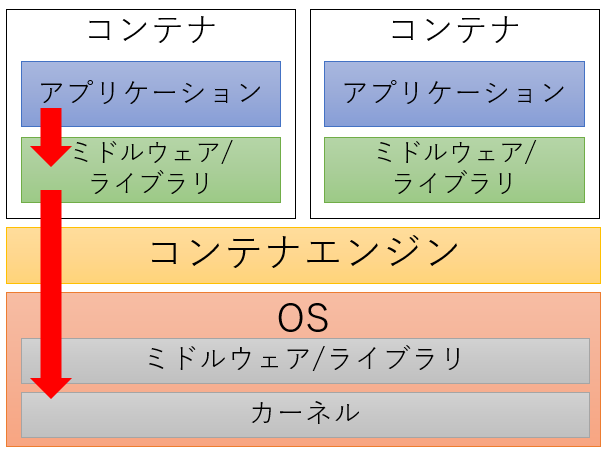
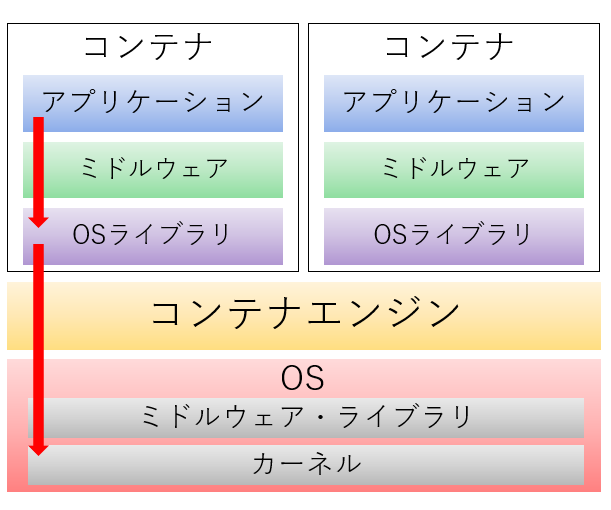
修正

diff --git a/docs/docker/docker_network.html b/docs/docker/docker_network.html
@@ -55,27 +55,25 @@
 
                 <p>一方で，複数のプロセスをコンテナとして実行すれば，PIDといった名前空間が隔離されるため，互いに影響を与えず動作することができる．また，コンテナごとにネットワークも隔離されるため，コンテナ内で各々のプロセスがポートを開放していても，（ホスト側で使用するポート番号が重複していなければ）互いに影響を与えずに起動し続けられる．</p>
                 <figure>
-                    <img src="../imgs/docker_network1.PNG" width="70%" style="display: block; margin: auto;">
+                    <img src="../imgs/docker_network1.PNG" width="85%" style="display: block; margin: auto;">
                     <figcaption>出典：<cite><a href="https://knowledge.sakura.ad.jp/23899/">Docker Compose入門 (3) ～ネットワークの理解を深める～</a></cite></figcaption>
                 </figure>
 
                 <p>これは，Docker Composeを使う場合も同じである．Docker Composeでアプリケーションを実行すると，そのプロセスの名前空間やネットワーク，ボリュームなども，アプリケーションごとに分離することができる．</p>
                 <figure>
-                    <img src="../imgs/docker_network2.PNG" width="70%" style="display: block; margin: auto;">
+                    <img src="../imgs/docker_network2.PNG" width="85%" style="display: block; margin: auto;">
                     <figcaption>出典：<cite><a href="https://knowledge.sakura.ad.jp/23899/">Docker Compose入門 (3) ～ネットワークの理解を深める～</a></cite></figcaption>
                 </figure>
                 
-                <p>Composeを用いると，YAMLファイルに記述した，同じComposeのプロジェクト内に存在するコンテナ間で通信可能なネットワークが作成される．これは，User Defined Bridge Network（ユーザ定義ブリッジ・ネットワーク）と呼ばれ，コンテナ間通信を行うだけでなく，インターネットといったホスト上にあるネットワークとの通信もやりとりする．</p>
-
                 <h3>Dockerのネットワークモデル</h3>
-                <p>通常，Dockerコンテナは，デフォルトではコンテナ外部のネットワークと通信することはできない．そのため，単に複数のコンテナを実行しても，相互に通信できない場合がある．意図した通りにコンテナ間で通信を行うには、適切な設定が必要でである．</p>
+                <p>通常，Dockerコンテナは，デフォルトではコンテナ外部のネットワークと通信することはできない．そのため，単に複数のコンテナを実行しても，相互に通信できない場合がある．意図した通りにコンテナ間で通信を行うには、適切な設定が必要である．</p>
                 <p><code>$ docker run</code>で，コンテナを起動すると，通常は"bridge0"という名前のブリッジ・ネットワークに接続する．これがデフォルトのブリッジ・ネットワーク(bridge network)である．同じブリッジ・ネットワーク上に接続しているコンテナは，互いに通信が可能となる．そのため，ネットワークを特に定義しないコンテナ間では，コンテナが持つIPアドレスを用いて互いに通信できる．</p>
 
-                <p>しかし，この場合，コンテナのIPアドレスが変わった場合に対処が必要となる．コンテナ技術により，容易にアプリケーションをスケールアウトし易くなったが，コンテナ間の通信でIPアドレスが必要となれば，通常のサーバ運用と同じ，あるいはそれ以上に設定・管理が煩雑になる．</p>
+                <p>しかし，この場合，コンテナのIPアドレスが変わった場合に対処が必要となる．コンテナ技術により，容易にアプリケーションをスケールアウトし易くなったにも関わらず，コンテナ間の通信でIPアドレスが必要となれば，通常のサーバ運用と同じ，あるいはそれ以上に設定・管理が煩雑になってしまう．</p>
 
-                <p>Dockerには，コンテナ間での通信や，処理の負荷分散を行うため，ネットワーク内部で利用可能な”コンテナ名”，”IPアドレス”の名前解決（サービス・ディスカバリ）を行う仕組みが，標準で搭載されている．つまり，コンテナ間の通信は，IPアドレスではなく，コンテナ名を用いることができる．これにより，スケールできる環境においてもIPアドレスを意識する必要がなくなり，コンテナ間の通信や負荷分散が容易となる．</p>
+                <p>Dockerには，コンテナ間での通信や，処理の負荷分散を行うため，ネットワーク内部で利用可能な”コンテナ名”，”IPアドレス”の名前解決（サービス・ディスカバリ）を行う仕組みが，標準で搭載されている．しかし，デフォルトで作成される”bridge0”では，この名前解決機能が搭載されていない．コンテナ間の通信で名前解決を有効化するには，ブリッジ・ネットワークを作成する必要がある．これをUser Defined Bridge Network（ユーザ定義ブリッジ・ネットワーク）と呼ぶ．このネットワークを作成することで，名前解決が有効となり，コンテナ間の通信において，IPアドレスではなく，コンテナ名を用いることができる．これによって，スケールできる環境においてもIPアドレスを意識する必要がなくなり，コンテナ間の通信や負荷分散が容易となる．</p>
                 
-                <p>しかし，注意点としてデフォルトの”bridge0”という名前のブリッジ・ネットワークでは，上記の名前解決機能が搭載されていない．コンテナ間の通信で名前解決を有効化するには，ブリッジ・ネットワークを作成する必要がある．これをUser Defined Bridge Network（ユーザ定義ブリッジ・ネットワーク）と呼ぶ。なお，<code>$ docker network ls</code>で，Dockerのネットワークを確認する．</p>
+                <p>なお，Composeを用いると，YAMLファイルに記述した，同じComposeのプロジェクト内に存在するコンテナ間で通信可能なネットワーク（User Defined Bridge Network）が作成される．これにより，コンテナ間通信を行うだけでなく，インターネットといったホスト上にあるネットワークとの通信もやりとりする．</p><br>
 
                 <h3>Docker Network</h3>
                 Dockerには，デフォルトで存在する3つのネットワークと独自で定義するネットワークがある．
@@ -91,13 +89,13 @@
                 <p>Noneネットワークは，コンテナにネットワークインターフェースを持たせないネットワークであり，コンテナが内外の通信ができなくなる．Noneネットワークに接続する場合は，他のネットワークから全て切断させる必要がある．</p>
                 
                 <h4>独自ネットワーク</h4>
-                <p>独自のネットワークを作成することで，コンテナ名でのコンテナ間通信が可能となる．<br>
+                <p>独自のネットワーク（ユーザ定義ブリッジ・ネットワーク）を作成することで，コンテナ名でのコンテナ間通信が可能となる．<br>
                 <code>$ docker network create <ネットワーク名></code>で新しくネットワークを作成し，<code>$ docker network connect <接続するネットワーク名> <コンテナ名></code>で，指定したコンテナを指定したネットワークに接続していく．</p>
                 
                 <p>ユーザー定義の独自ネットワークでは，名前解決が有効化され，コンテナ名で他のコンテナに接続できるようになる．<br>
                 なお，コンテナ起動時，どのネットワークに接続するかは「--net」オプションで指定する。</p>
                 <figure>
-                    <img src="../imgs/docker_network3.PNG" width="70%" style="display: block; margin: auto;">
+                    <img src="../imgs/docker_network3.PNG" width="85%" style="display: block; margin: auto;">
                     <figcaption>出典：<cite><a href="https://knowledge.sakura.ad.jp/23899/">Docker Compose入門 (3) ～ネットワークの理解を深める～</a></cite></figcaption>
                 </figure>
                 

diff --git a/docs/docker/docker_files.html b/docs/docker/docker_files.html
@@ -52,12 +52,12 @@
                 <h2>Dockerの構成要素</h2>
                 <h3>Docker Image</h3>
                 <p>
-                Docker Imageとは，Dockerコンテナを起動するために，必要な設定ファイルをまとめたテンプレートのことである．”Imageはコンテナの元であり，Imageからコンテナを起動する”と理解すると良い．本来はソフトウェアをインストールする際に，様々な設定をカスタマイズをする必要があるが，Docker Imageを使うことで，その設定作業を省略することができる．また，DockerではこのImageを共有することで，様々なマシンで同じコンテナ(実行環境)を動作させることができる．なお，多くの場合，Imageは他のImageをベースにして，さらにカスタマイズを加えたものである．</p>
+                Docker Imageとは，Dockerコンテナを起動するために，必要な設定ファイルをまとめたテンプレートのことである．”Imageはコンテナの元であり，Imageからコンテナを起動する”と理解すると良い．本来はソフトウェアをインストールする際に，様々な設定をカスタマイズをする必要があるが，Docker Imageを使うことで，その設定作業を省略することができる．また，DockerではこのDocker Imageを共有することで，様々なマシンで同じコンテナ(実行環境)を動作させることができる．なお，多くの場合，Docker Imageは他のDocker Imageをベースにして，さらにカスタマイズを加えたものである．</p>
                 <p style="padding: 2px; border-left: 3px solid gray; font-size: 15px;"><b>Tag</b></p>
-                <p>Docker Imageには，"Tag"という概念がある．これは"Imageのversion"のことである．Imageにタグを付与することで，Imageを区別することができ，Image毎にバージョンで管理したい場合は，タグにバージョン番号を指定する．Docker Imageを共有できるDocker Hubでは，Imageに様々なタグが存在し，どのversionを使用するかを選択できる．Docker Hubからダウンロードする際に，タグ名を何も指定しないと，自動的に"latest"タグが使用されるようになっている．</p>
+                <p>Docker Imageには，"Tag"という概念がある．これは"Docker Imageのversion"を表している．Docker Imageにタグを付与することで，Docker Imageを区別することができ，Docker Image毎にバージョンで管理したい場合は，タグにバージョン番号を指定する．Docker Imageを共有できるDocker Hubでは，Docker Imageに様々なタグが存在し，どのversionを使用するかを選択できる．Docker Hubからダウンロードする際に，タグ名を何も指定しないと，自動的に"latest"タグが使用されるようになっている．</p>
 
                 <h4>Docker Imageの構造</h4>
-                イメージは以下のような特徴を持つ．
+                Docker Imageは以下のような特徴を持つ．
                 <ol>
                     <li>layer構造になっている
                     <li>一度作成されたimageは編集不可能（読み取り専用）
@@ -65,7 +65,7 @@
                 </ol>
 
                 <p>Docker Imageは，レイヤー構造であり，複数のファイルやディレクトリなどがレイヤ（層）として積み重なり，1つに統合されたファイルシステムとして見えるようになっている．1つのインストールコマンドで，1つのレイヤーが積み重なっていくイメージである．Docker内部のストレージ・ドライバが，レイヤーを積み重ねる役割を担っている．<br>
-                また、土台となるベースレイヤーの上に，複数のレイヤーを積み重ねた編集不可能(Read Only)のイメージレイヤーが纏められており，コンテナ起動時に薄い読み書き可能なレイヤー(Thin R/W layer)が，自動的に割り当てられる．Imageに対する変更情報（ファイルの追加・削除など）は，すべてこのコンテナ用レイヤー上に記録され，このレイヤーをコミットすることで，新しいImageを生成することができる．</p>
+                また、土台となるベースレイヤーの上に，複数のレイヤーを積み重ねた編集不可能(Read Only)のイメージレイヤーが纏められており，コンテナ起動時に薄い読み書き可能なレイヤー(Thin R/W layer)が，自動的に割り当てられる．Docker Imageに対する変更情報（ファイルの追加・削除など）は，すべてこのコンテナ用レイヤー上に記録され，このレイヤーをコミットすることで，新しいDocker Imageを生成することができる．</p>
                 
                 <img src="../imgs/dockerimage.PNG" width="80%" style="display: block; margin: auto;">
                 
@@ -73,17 +73,16 @@
 
 
                 <h3>Dockerfile</h3>
-                Dockerfileは，Dockerで作成するコンテナイメージを管理するためのファイルである．言わば，Docker Imageの設計図である．Dockerfileに，イメージを作成する際の定義（どのようなファイルを追加するか，どんなコマンドを実行するか）を記述する．Dockerfileの各命令は，イメージのレイヤを作成する．Dockerfileを変更してイメージをリビルドすると，変更されたレイヤだけがリビルドされる．これが，他の仮想化技術と比較して，イメージを非常に軽量・小型・高速にする要因の一つであると言える．
+                Dockerfileは，Dockerで作成するDocker Imageを管理するためのファイルである．言わば，Docker Imageの設計図である．Dockerfileに，Docker Imageを作成する際の定義（どのようなファイルを追加するか，どんなコマンドを実行するか）を記述する．Dockerfileの各命令は，Docker Imageのレイヤを作成する．Dockerfileを使用してDocker Imageを作成することをビルドと呼び，作成されたDocker Imageを起動することで，実際にコンテナが立ち上がる．Dockerfileを変更してDocker Imageをリビルドすると，変更されたレイヤだけがリビルドされる．これが，他の仮想化技術と比較して，Docker Imageを非常に軽量・小型・高速にする要因の一つであると言える．
                 <h4>Dockerfileのメリット</h4>
                 <ul>
                     <li>コンテナ構築の一連の手順を自動化できる</li>
                     <li>Dockerコンテナの仕様をファイルで管理できる</li>
                     <li>自分の好きなようにカスタマイズすることができる</li>
                     <li>共有することで，複数人が簡単に同じ環境を構築できる</li>
-                    <li>コンテナイメージに、変更内容を履歴として保持することができる</li>
+                    <li>Docker Imageに、変更内容を履歴として保持することができる</li>
                 </ul>
-                Dockerfileを使用してコンテナイメージを作成することをビルドと呼び，作成されたコンテナイメージを起動することで，実際にコンテナが立ち上がる．
-                基本的にDocker Hubなどからpullしてきた既存のイメージにファイルを追加したり，コマンドを実行したりすることで作成する．
+                基本的にDocker Hubなどからpullしてきた既存のDocker Imageにファイルを追加したり，コマンドを実行したりすることで作成する．
                 例として，app.pyというPythonプログラムを実行するためのコンテナのDockerfileは，以下のようになる．（※<a href="https://qiita.com/satken2/items/8515900a5a7b9bb0d0c9">Linuxコンテナ・Docker入門(後編)</a>より引用）
                 <pre>
                     <code>
@@ -112,7 +111,7 @@
                 
                 <h4>Dockerfileのコマンド例</h4>
                 <ul>
-                    <li>FROM：基となるコンテナイメージ</li>
+                    <li>FROM：基となるDocker Image</li>
                     <li>LABEL：ラベル情報（メタデータ）</li>
                     <li>COPY：ホストからコンテナへのファイルコピー</li>
                     <li>RUN：docker build 時に実行するコマンド</li>

diff --git a/docs/container/container_structure.html b/docs/container/container_structure.html
@@ -51,31 +51,31 @@
             <div class="content">
                 <h1>コンテナの構成</h1>
                 <p>コンテナは単一のホストOS上で動作するコンテナエンジン上にプロセスとして存在し，そのエンジンが管理するリソースの範囲内で，複数のコンテナを同時に動作させることができる．<br>
-                コンテナ内には、”アプリケーション（≒プロセス）”と、その実行に必要な”ミドルウェア”，”ライブラリ”などが含まれる．このライブラリの中にはOSの基本的なコマンドやファイルシステムのライブラリといった，OSが提供する機能の一部が含まれる．</p>
-                <img src="../imgs/container1.PNG" width="50%" style="display: block; margin: auto;">
+                コンテナ内部には、”アプリケーション（≒プロセス）”と、その実行に必要な”ミドルウェア”，”OSの一部（ライブラリ，設定，ファイルシステムなど）”がパッケージ化されている．</p>
+                <img src="../imgs/container1.PNG" width="65%" style="display: block; margin: auto;">
                 
-                <p>様々なLinuxOSのコンテナイメージが公開されており，これらを用いることでアプリケーションの実行環境を構築できる．しかし，コンテナはOS自体を動作させているわけではなく，それに似た動作環境を再現している．その理解の為に，コンテナにおけるアプリケーションの起動方法を解説する．<br>
+                <p>様々なLinuxOSのコンテナイメージが公開されており，これらを用いることでアプリケーションの実行環境を構築できる．しかし，コンテナはOS自体を動作させているわけではなく，それに似た動作環境を再現している．その理解の為に，コンテナにおけるアプリケーションの動作を解説する．<br>
                 
-                コンテナ内のアプリケーションは、コンテナ内のミドルウェアやライブラリを通して、ホストOSのカーネルのシステムコールを呼び出すことで動作している．ホストOSのカーネルがシステムコールを処理することでアプリケーションを動作させている．実際には ABI(Application Binary Interface) と呼ばれる専用のインターフェース経由でやり取りされる．</p>
-                <img src="../imgs/container2.PNG" width="50%" style="display: block; margin: auto;">
+                コンテナ内のアプリケーションは，コンテナ内のミドルウェアやライブラリを通して．ホストOSのカーネルのシステムコールを呼び出すことで動作している．そして，ホストOSのカーネルがシステムコールを処理することでアプリケーションが動作する．実際にはABI(Application Binary Interface) と呼ばれる専用のインターフェース経由でやり取りされる．</p>
+                <img src="../imgs/container2.PNG" width="65%" style="display: block; margin: auto;">
 
                 <h1>コンテナの種類</h1>
                 <p>コンテナには大きく分けて，2種類のものがある．</p>
                 <h3>アプリケーションコンテナ</h3>
                 <p>
-                    アプリケーションコンテナとは，１つのサービスをパッケージ化して実行するように設計されたコンテナである．１コンテナにつき１サービスであるため，実行が軽い，コンテナ内のアプリケーションの依存関係がシンプルになる，といった特徴がある．アプリケーションコンテナの例としては，DockerやRocketがある．<br>
-                    また，大きな特徴の１つとしては，他のコンテナ技術の上に構築できる点である．アプリケーションコンテナの背後にある考え方は，アプリケーション内のコンポーネントごとに異なるコンテナを作成するというものである．このアプローチは，マイクロサービスアーキテクチャを使用して，分散型のマルチコンポーネントシステムをデプロイする場合に特に有効である．
+                    アプリケーションコンテナとは，１つのサービスをパッケージ化して実行するように設計されたコンテナである．コンテナとして１つのサービスを実行する．DockerやRocketといったコンテナは，アプリケーションコンテナの一例である．<br>
+                    アプリケーションコンテナの背後にある考え方は，アプリケーション内の部品ごとに異なるコンテナを作成するというものである．例えば，PostgreSQL，Node.js，Nginxを用いて，Webアプリケーションを開発する場合に，それぞれ別のコンテナとして構築する．
                 </p>
                 <h3>システムコンテナ</h3>
                 <p>             
                     システムコンテナとは，アプリケーションコンテナと異なり，複数のプロセスとサービスが動作し，実際のLinux OSと同様に動作するコンテナである．OSを丸ごとコンテナ内で実行するようなイメージである．その為，他のOSと同じように，アプリケーションやライブラリ等をインストール，構成，実行することが出来る．なお，VMと同じように，コンテナ内で実行されているものはすべて，そのコンテナに割り当てられているリソースのみを表示する．システムコンテナの例としては，LXCやOpenVZがある．<br>
                 </p>
                 <figure>
-                    <img src="../imgs/container3.PNG" width="70%" style="display: block; margin: auto;">
+                    <img src="../imgs/container3.PNG" width="80%" style="display: block; margin: auto;">
                     <figcaption>出典：<cite><a href="https://blog.risingstack.com/operating-system-containers-vs-application-containers/">Operating System Containers vs. Application Containers</a></cite></figcaption>
                 </figure>
                 
-                従って，一般的に，アプリケーションをコンポーネントとしてパッケージ化して配布する場合は，アプリケーションコンテナが適切な手段として機能する．一方で，様々なライブラリや言語，DBなどをインストールできるOSが必要な場合は，システムコンテナの方が適している．
+                一般的に，アプリケーションをコンポーネントとしてパッケージ化して配布する場合は，アプリケーションコンテナが適切な手段として機能する．一方で，様々なライブラリや言語，DBなどをインストールできるOSが必要な場合は，システムコンテナの方が適している．
 
                 <br><br><br>
             </div>

diff --git a/docs/container/what_is_container.html b/docs/container/what_is_container.html
@@ -67,41 +67,46 @@
                 <br><h2>コンテナとVMの違い</h2>
                 <p style="padding: 8px; border-left: 2px solid blue; font-size: 20px;"><b>〇実行環境</b></p>
                 VMとコンテナの違いの一つは，上記にあるように「OSカーネルを複数実行可能かどうか」である．VMでは，各VM毎に別々のOSカーネルを実行できる．一方で，コンテナは単一のOSカーネルしか実行することができず，単一のOSカーネル上で複数のコンテナが動作することになる．また，VMはカーネル空間とユーザー空間の両方を分離しているのに対し，コンテナはユーザー空間のみを分離している．（※）<br>
-                ※カーネル空間：カーネル領域<tr>ユーザー空間：アプリケーションが動作している領域
+                ※カーネル空間：カーネル（OSの基本機能の役割を担うソフトウェア）が使用するメモリ領域<br>
+                　ユーザー空間：アプリケーションが使用するメモリ領域
 
                 <p style="padding: 8px; border-left: 2px solid blue; font-size: 20px;"><b>〇起動速度</b></p>
                 もう一つの違いは，「起動速度」である，VMの場合，OSカーネルの起動からシステムに必要なプロセスの実行，アプリケーションの実行のように，システムの起動が完了するまでに様々な処理が必要である．一方で，コンテナの場合，OSカーネルとシステムプロセスの起動は完了しているため，アプリケーションプロセスの実行処理だけで済む．この特徴を活かし，システム開発からテスト，本番環境へのデプロイまでを高速に行うことができるため，コンテナはDevOpsと相性が良いとされている．
-                <br><img src="../imgs/vm_container.PNG" width="80%" style="display: block; margin: auto;"><br>
+                <br><br><img src="../imgs/vm_container.PNG" width="100%" style="display: block; margin: auto;"><br>
 
                 <h3 align="center">仮想マシン vs. コンテナ</h3>
                 <div style="margin:0px;padding:0px;" align="center">
-                    <table width="98%" style="border-collapse: collapse;border:1px solid #000000;background-color:#FFFFFF;color:#000000;text-align:left;">
+                    <table width="100%" style="border-collapse: collapse;border:1px solid #000000;background-color:#FFFFFF;color:#000000;text-align:left;">
                         <tbody>
                             <tr>
+                                <th style="border:1px solid #000000;background-color:#FFDEA4;color:#FFFFFF;text-align:center;">&nbsp;</th>
                                 <th style="border:1px solid #000000;background-color:#FFDEA4;color:#696969;text-align:center;">仮想マシン</th>
                                 <th style="border:1px solid #000000;background-color:#FFDEA4;color:#696969;text-align:center;">コンテナ</th>
                             </tr>
                             <tr>
-                                <td style="border:1px solid #000000;text-align:left;">
-                                    <ul>
-                                        <li>専用の仮想化ソフトウェアが介在
-                                        <li>オーバーヘッドが存在
-                                        <li>多数のソフトをインストールして使用
-                                        <li>仮想マシンはファイルで管理
-                                        <li>各VM毎に，異なるOSカーネルを実行可能
-                                        <li>カーネル空間とユーザー空間の両方を分離
-                                    </ul>
-                                </td>
-                                <td style="border:1px solid #000000;text-align:left;">
-                                    <ul>
-                                        <li>コンテナエンジンと呼ばれるプロセスが介在
-                                        <li>オーバーヘッドがほぼ0
-                                        <li>基本的に１ソフト／１コンテナ
-                                        <li>ホストOSからは，単なるプロセスとして見える
-                                        <li>単一のOSカーネルしか実行できない
-                                        <li>ユーザー空間のみを分離
-                                    </ul>
-                                </td>
+                                <td style="border:1px solid #000000;text-align:left;">構成</td>
+                                <td style="border:1px solid #000000;text-align:left;">専用の仮想化ソフトウェアが介在</td>
+                                <td style="border:1px solid #000000;text-align:left;">コンテナエンジンと呼ばれるプロセスが介在</td>
+                            </tr>
+                            <tr>
+                                <td style="border:1px solid #000000;text-align:left;">オーバーヘッド</td>
+                                <td style="border:1px solid #000000;text-align:left;">オーバーヘッドが存在する</td>
+                                <td style="border:1px solid #000000;text-align:left;">オーバーヘッドはほぼ0</td>
+                            </tr>
+                            <tr>
+                                <td style="border:1px solid #000000;text-align:left;">柔軟性</td>
+                                <td style="border:1px solid #000000;text-align:left;">多数のソフトをインストールして使用可能<br>多機能で柔軟性がある</td>
+                                <td style="border:1px solid #000000;text-align:left;">基本的に1コンテナにつき，1ソフト<br>単機能向け</td>
+                            </tr>
+                            <tr>
+                                <td style="border:1px solid #000000;text-align:left;">OS</td>
+                                <td style="border:1px solid #000000;text-align:left;">各VM毎に独自のOSカーネルを実行可能</td>
+                                <td style="border:1px solid #000000;text-align:left;">すべてのコンテナはホストの同じOSカーネルを共有する</td>
+                            </tr>
+                            <tr>
+                                <td style="border:1px solid #000000;text-align:left;">メモリ領域の分離</td>
+                                <td style="border:1px solid #000000;text-align:left;">カーネル空間とユーザー空間の両方を分離</td>
+                                <td style="border:1px solid #000000;text-align:left;">ユーザー空間のみを分離</td>
                             </tr>
                         </tbody>
                     </table>

diff --git a/docs/container/container_process.html b/docs/container/container_process.html
@@ -53,22 +53,28 @@
                 <p>Linuxにおける一般的なコンテナは，幾つかの機能を組み合わせることにより実現されている．その中でも代表的なLinuxのカーネル機能について説明する．
                 </p>
                 <h2>Namespace</h2>
-                <p>Namespaceは，Linuxカーネルのリソースを各プロセスごとに分離するための機構である．この機能により，プロセスは他のプロセスと隔離されるため，互いに干渉せずに環境構築が可能となる．
+                <p>Namespaceは，Linuxカーネルのリソースを各プロセスごとに分離するための機構である．Namespaceを用いると，プロセス，ファイル構造，ユーザーID，グループIDなどを一つのOSの中で分離することができる．よって，プロセスを他のプロセスと隔離することができるため，互いに干渉せずに環境構築を行うことが可能となる．
                 <h4>Namespaceの種類（一例）</h4>
                 <ul>
-                    <li>PID Namespace:　Process IDを分離する．これにより，ホストのOSのプロセスの状態と関係なく，コンテナ内のPIDは1からスタートする．
-                    <li>Network Namespace:　NICやルーティングテーブル，FWのポリシー設定などのネットワークに関する情報を分離する．
-                    <li>UTS Namespace:　ホスト名やNISドメイン名を分離する．NISは複数のコンピュータを一元管理するために用いられる仕組みで，NISドメインはその識別子．
-                    <li>User Namespace:　UID，GID，Capabilityを分離する．
-                    <li>IPC Namespace:　プロセス間通信 (Inter-Process Communication) の名前空間．これが共有されているとプロセス間での通信が行える．
+                    <li><span style="text-decoration:underline; text-decoration-color:red;">PID Namespace</span>：&nbsp;
+                        Process IDを分離する．これにより，ホストのOSのプロセスの状態と関係なく，コンテナ内のPIDは1からスタートする．
+                    <li><span style="text-decoration:underline; text-decoration-color:red;">Network Namespace</span>：&nbsp;
+                        NICやルーティングテーブル，FWのポリシー設定などのネットワークに関する情報を分離する．
+                    <li><span style="text-decoration:underline; text-decoration-color:red;">UTS Namespace</span>：&nbsp;
+                        ホスト名やNISドメイン名を分離する．NISは複数のコンピュータを一元管理するために用いられる仕組みで，NISドメインはその識別子．
+                    <li><span style="text-decoration:underline; text-decoration-color:red;">User Namespace</span>：&nbsp;
+                        UID，GID，Capabilityを分離する．
+                    <li><span style="text-decoration:underline; text-decoration-color:red;">IPC Namespace</span>：&nbsp;
+                        プロセス間通信 (Inter-Process Communication) の名前空間．これが共有されているとプロセス間での通信が行える．
                 </ul>
 
                 <figure>
-                    <img src="../imgs/container4.PNG" width="85%" style="display: block; margin: auto;">
+                    <img src="../imgs/container4.PNG" width="100%" style="display: block; margin: auto;">
                     <figcaption>出典：<cite><a href="https://tech-lab.sios.jp/archives/18811">【連載】世界一わかりみが深いコンテナ & Docker入門 〜その1:コンテナってなに？〜</a></cite></figcaption>
                 </figure>
                 <br>
-                Namespace AとBがあり，その中では独立したファイル構造やプロセス空間を持つことができる．Namespaceが異なれば，同じファイル名やディレクトリが1つのOS上に作れる．プロセス空間については，ホストOS上で動作しているPIDとコンテナ上で動作しているPIDをマッピングしているテーブルがあり，ホストOS上ではPIDが2だが，コンテナ上ではPIDが1である，ということになる．</p><br>
+                AとBの２つのNamespaceがあり，その中では独立したファイル構造やプロセス空間を持つことができる．プロセス空間については，ホストOS上で動作しているPIDとコンテナ上で動作しているPIDをマッピングしているテーブルがあり，ホストOS上ではPIDが2だが，コンテナ上ではPIDが1に見えている，ということになる．<br>
+                Namespaceが異なれば，PIDが同じでも問題は無く，同じファイル名やディレクトリ名で内容が異なるものでも，一つのOS上に存在することができる．</p>
 
                 <h2>cgroup</h2>
                 <p>cgroupは，プロセスをグループ化し，Linuxカーネルのリソースの使用を制限する役割を担う．上記のNamespaceはホスト名やPIDなどのリソースを制御するのに対し，cgroupはCPUやメモリといった物理的なリソースを制御する．cgroupを使うことで，特定のプロセスがホストOSの持つ有限なリソースを使い尽くして，ホストOSや他のプロセスに影響を与えないようにコントロールすることができる．</p><br>

diff --git a/docs/docker/what_is_docker.html b/docs/docker/what_is_docker.html
@@ -50,12 +50,12 @@
         <div class="main-contents">
             <div class="content">
                 <h2>Dockerとは</h2>
-                <p>Dockerとは，Docker社が提供しているOSSのコンテナエンジンである（※有償版有）．現在，最も普及しているコンテナ型仮想化ソフトウェアであり，Amazon Web Service(AWS)のElastic Container Service(ECS)のようなコンテナプラットフォームや，開発者の開発環境など広く使われている．コンテナはプラットフォームに依存しない為，DockerはWindowsとLinuxベースの両方のプラットフォームで実行できる．実際，Do仮想マシン内でDockerを実行することも可能である．Dockerの主な目的は，分散アーキテクチャでマイクロサービス・アプリケーションを実行できるようにすることである．
+                <p>Dockerとは，Docker社が提供しているOSSのコンテナエンジンである（※有償版有）．現在，最も普及しているコンテナ型仮想化ソフトウェア（コンテナエンジン）であり，Amazon Web Service(AWS)のElastic Container Service(ECS)のようなコンテナプラットフォームや，開発者の開発環境など広く使われている．DockerはWindowsとLinuxベースの両方のOSで実行でき．また，仮想マシン内でDockerを実行することも可能である．Dockerの主な目的は，分散アーキテクチャでマイクロサービス・アプリケーションを実行できるようにすることである．
                 </p>
                 <p>Dockerは以下のような機能・特徴を持つ</p>
                 <ul>
                     <li>可搬性・共有機能
-                        <br>Dockerは，コンテナをtarファイルにアーカイブして他の物理マシンに送信したり，コンテナレジストリを介して共有できる機能を持つ．これによって，コンテナの他の環境に流用することができる．
+                        <br>Dockerは，コンテナをtarファイルにアーカイブして他の物理マシンに送信したり，コンテナレジストリを介して共有できる機能を持つ．これによって，コンテナを他の環境に流用することができる．
                     <li>IaC（Infrastructure as Code）
                         <br>
                         IaCとは，コードやスクリプトを用いてインフラストラクチャの管理やプロビジョニングを行うことである．<br>

diff --git a/docs/docker/dockercompose.html b/docs/docker/dockercompose.html
@@ -85,6 +85,8 @@
                     <li><code>$ docker-compose rm</code>：コンテナの削除</li>
                     <li><code>$ docker-compose down</code>：コンテナの停止・削除</li>
                 </ul>
+
+                <h3>kubernetesとの違い</h3>
                 <br><br><br>
             </div>
         </div>

diff --git a/docs/conclusion.html b/docs/conclusion.html
@@ -52,7 +52,7 @@
         <div class="main-contents">
             <div class="content">
                 <h2>おわりに</h2>
-                <h3>参考文献等</h3>
+                <h3>参考文献</h3>
                 <h4>コンテナ</h4>
                 <p>
                     <ul>
